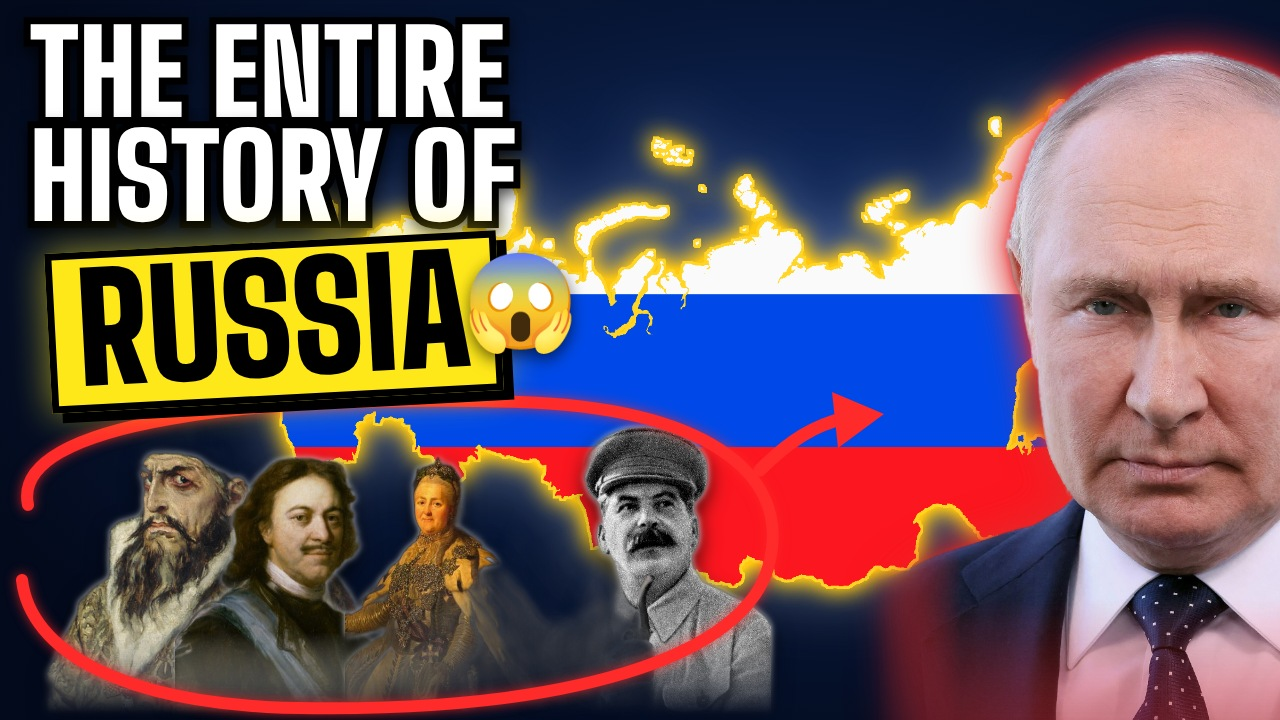
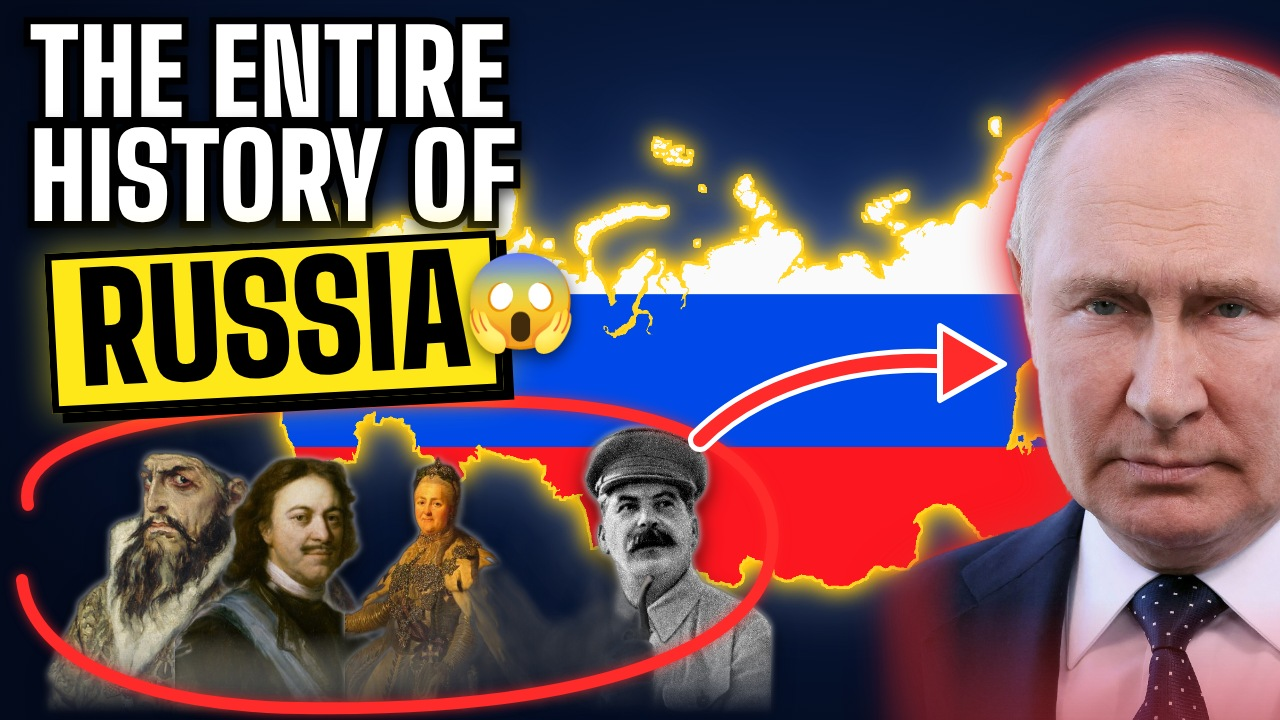
longform: Russia thumbnail E2 (arrow on blue band)
Claude-Session: https://claude.ai/code/session_0174hqQAqBGwiauFwJLC1PNp

Changed region(s): [[0.5312, 0.4278, 0.7812, 0.6417]]

diff --git a/longform/russia/full/thumbs/thumb_E2.html b/longform/russia/full/thumbs/thumb_E2.html
@@ -19,8 +19,9 @@ svg{position:absolute;left:0;top:0}
 <img class="p" src="pf_stalin.png" style="left:500px;height:300px;filter:grayscale(1) contrast(1.15) drop-shadow(0 0 3px rgba(255,255,255,.9)) drop-shadow(0 8px 10px rgba(0,0,0,.8))">
 <svg width="1280" height="720" viewBox="0 0 1280 720">
  <path d="M28,505 C10,420 260,395 520,402 C700,408 790,470 770,560 C750,660 560,712 300,708 C120,705 30,650 22,580" fill="none" stroke="#ff2a2a" stroke-width="12" stroke-linecap="round" style="filter:drop-shadow(0 0 6px rgba(255,40,40,.7))"/>
- <path d="M760,470 C790,440 815,425 845,418" fill="none" stroke="#ff2a2a" stroke-width="13" stroke-linecap="round"/>
- <path d="M832,392 L884,414 L838,448 Z" fill="#ff2a2a"/>
+ <path d="M700,440 C760,380 860,355 950,362" fill="none" stroke="#fff" stroke-width="24" stroke-linecap="round"/>
+ <path d="M700,440 C760,380 860,355 950,362" fill="none" stroke="#ff2a2a" stroke-width="14" stroke-linecap="round"/>
+ <path d="M940,326 L1004,364 L940,400 Z" fill="#ff2a2a" stroke="#fff" stroke-width="6" stroke-linejoin="round"/>
 </svg>
 <div class="t w" style="left:30px;top:20px;font-size:116px">THE ENTIRE</div>
 <div class="t w" style="left:30px;top:124px;font-size:116px">HISTORY OF</div>
